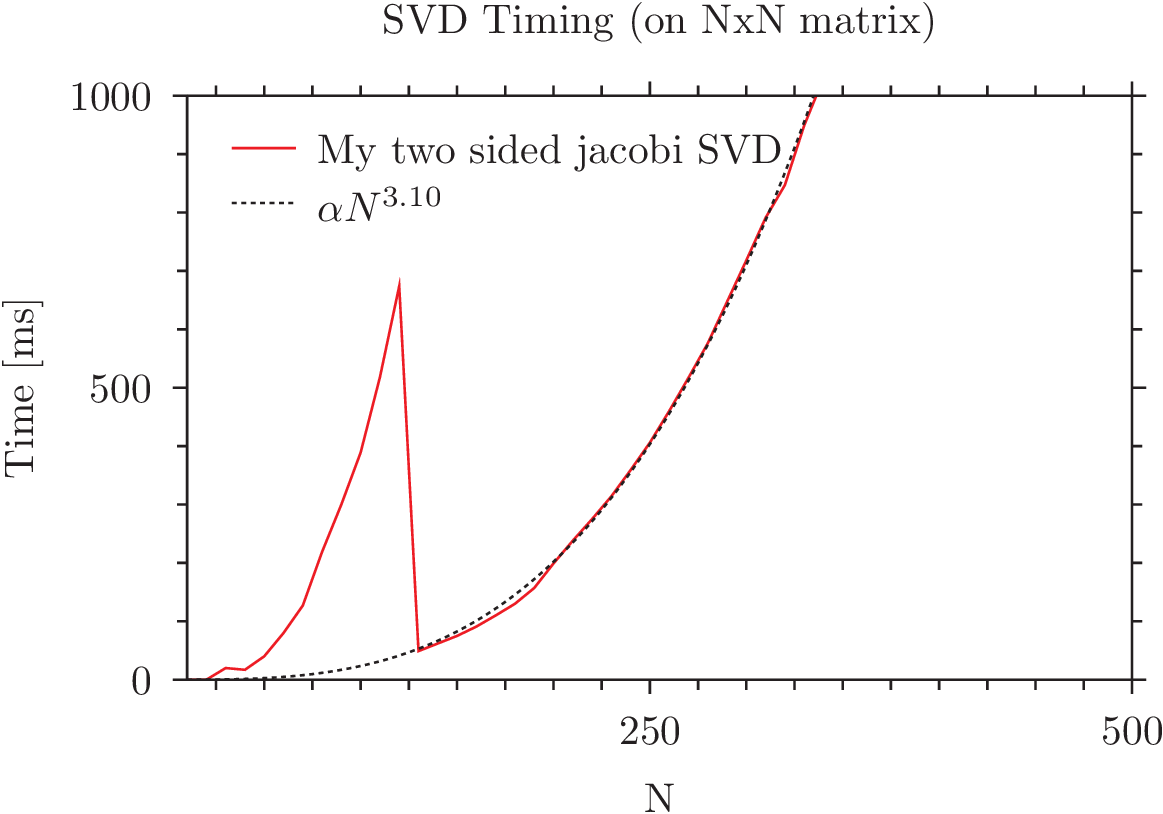
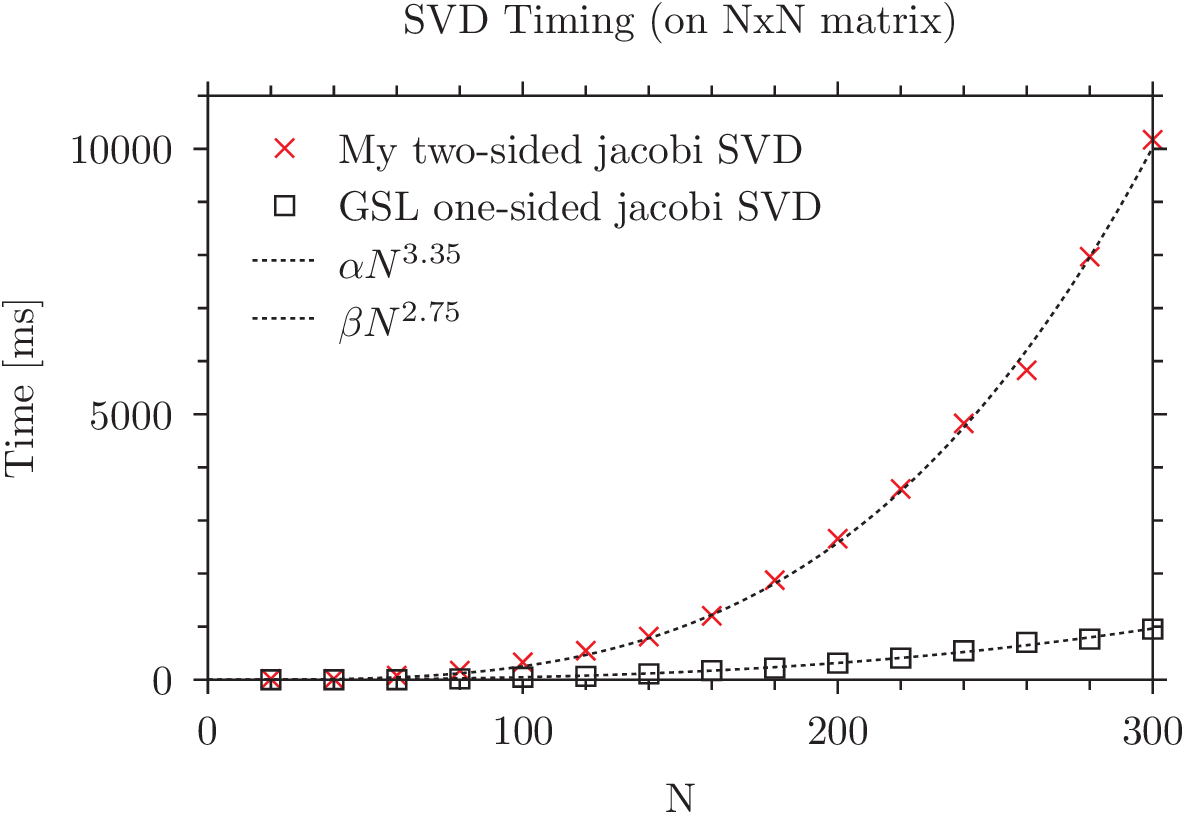
timing vs GSL

diff --git a/exam/main.c b/exam/main.c
@@ -1,6 +1,6 @@
 #include"matrix.h"
 #include<gsl/gsl_blas.h>
-#include<gsl/gsl_eigen.h>
+#include<gsl/gsl_linalg.h>
 
 #include<stdio.h>
 #include<time.h>
@@ -9,10 +9,6 @@
 #include<string.h>
 #define true 1
 #define false 0
-
-int testDiag(gsl_matrix *A){
-    return 0;
-}
 
 //Testing algorithm on tall matrix with n>m
 complex test_SVD(int n, int m, double tau, double eps){
@@ -55,8 +51,7 @@ complex test_SVD(int n, int m, double tau, double eps){
     else if(check_diagonal(D, tau, eps) == false){
         err_code = 4; // Check D is diagonal
     }
-    
-    
+        
     gsl_matrix_free(A);
     gsl_matrix_free(D);
     gsl_matrix_free(U);
@@ -73,7 +68,6 @@ void compare_GSL(){
 
 void show_basic_func(){   
     printf("Two-sided Jacobi alg. for SVD\n\n");
-    
     
     int n = 7, m = 5;
     gsl_matrix *A = gsl_matrix_alloc(n, m);    
@@ -112,14 +106,12 @@ void show_basic_func(){
     
     gsl_blas_dgemm(CblasTrans, CblasNoTrans, 1, U, U, 0, UTU);
     gsl_blas_dgemm(CblasTrans, CblasNoTrans, 1, V, V, 0, VTV);
-    
-    
+        
     printf("Checking orthonormality\nMatrix VT*V: \n");
     print_matrix(VTV);
     printf("Matrix UT*V: \n");
     print_matrix(UTU);
-    
-    
+        
     gsl_matrix_free(A);
     gsl_matrix_free(D);
     gsl_matrix_free(U);
@@ -127,12 +119,11 @@ void show_basic_func(){
     gsl_matrix_free(UTU);
     gsl_matrix_free(VTV);
     gsl_matrix_free(P);
-    gsl_matrix_free(tempM);
-    
+    gsl_matrix_free(tempM);    
 }
 void testing(){
     int n_tests = 10;
-    int a = 100, b = 300;
+    int a = 50, b = 250;
     printf("\n\n----- TESTING -----\n");
     printf("Testing SVD algorithm on multiple random tall matrices, A, size NxM (N>M).\nM in [%d, %d] and N = M + rand([%d, %d]) + 1\n", a, b, a, b);
     printf("Testing is done by checking orthonormality of U and V, that D is diagonal, and U*D*V^T = A\n");
@@ -153,23 +144,36 @@ void testing(){
 void timing(){
     FILE *timing_output = fopen("timing.out", "w");
     
-    const int runs = 50;
-    const int max_N = 500;
-    for(int n = 10; n<=max_N; n+=max_N/runs){
+    const int runs = 15;
+    const int max_N = 300;
+    for(int n = max_N/runs; n<=max_N; n+=max_N/runs){
+        fprintf(stderr, "timing n=%d\n", n);
         gsl_matrix *A = gsl_matrix_alloc(n, n);    
+        gsl_matrix *Acopy = gsl_matrix_alloc(n, n);
+        gsl_vector *S = gsl_vector_alloc(n);
         gsl_matrix *U = gsl_matrix_alloc(n, n);    
         gsl_matrix *V = gsl_matrix_alloc(n, n);
+        gen_rand_matrix(A);
+        gsl_matrix_memcpy(Acopy, A);
         
         clock_t start = clock();
         SVD_two_jaco_square(A, V, U);
         clock_t end = clock();
         int msec_my_algo = (double)(end-start) * 1000. / CLOCKS_PER_SEC;
         
-        fprintf(timing_output, "%d %d\n", n, msec_my_algo);
+        start = clock();
+        gsl_linalg_SV_decomp_jacobi(Acopy, V, S);
+        end = clock();
+        int msec_gsl = (double)(end-start) * 1000. / CLOCKS_PER_SEC;
+        
+        
+        fprintf(timing_output, "%d %d %d\n", n, msec_my_algo, msec_gsl);
         
         gsl_matrix_free(A);
+        gsl_matrix_free(Acopy);
         gsl_matrix_free(U);
         gsl_matrix_free(V);
+        gsl_vector_free(S);
     }
     fclose(timing_output);
 }
@@ -184,6 +188,7 @@ int main(int argc, char**argv){
     
     if(argc >= 2){
         if(strcmp(argv[1], "test") == 0){
+            show_basic_func();
             testing();
         } else if(strcmp(argv[1], "time") == 0){
             timing();
@@ -193,13 +198,6 @@ int main(int argc, char**argv){
         }
     } else{
         show_basic_func();
-        testing();
-        timing();
-    }
-    
-    printf("TODO:\n");
-    printf("Optimization\n");
-    printf("Compare with a gsl-implementation\n\n");
-    
+    }    
     return EXIT_SUCCESS; 
 }

diff --git a/exam/SVD_two_jaco.c b/exam/SVD_two_jaco.c
@@ -33,68 +33,71 @@ void Jtimes(gsl_matrix *A, int p, int q, double theta){
 int SVD_two_jaco_square(gsl_matrix *A, gsl_matrix *V, gsl_matrix *U){
     assert(A->size1==A->size2);
     int n = A->size1;
-    
+
     int changes = 0;
     int sweeps = 0;
+
+    double old_app, old_aqq, new_app, new_aqq, apq, aqp, app, aqq;
+    double givens_angle, jacobi_angle;
     //Reset U,V to identity
-	gsl_matrix_set_identity(V);
-	gsl_matrix_set_identity(U);
-	do{
-		changes=0;
-		sweeps++;
+    gsl_matrix_set_identity(V);
+    gsl_matrix_set_identity(U);
+    do{
+        changes=0;
+        sweeps++;
         //Sweep over upper triangle
-		for(int p=0;p<n-1;p++){
+        for(int p=0;p<n-1;p++){
             for(int q=p+1;q<n;q++){
                 //Check if diagonal elements change upon next rotation
-                double old_app=gsl_matrix_get(A,p,p);
-                double old_aqq=gsl_matrix_get(A,q,q);
-                
+                old_app=gsl_matrix_get(A,p,p);
+                old_aqq=gsl_matrix_get(A,q,q);
+
                 //Calculate A <- J^T G^T A J 
-                double apq=gsl_matrix_get(A,p,q);
-                double aqp=gsl_matrix_get(A,q,p);
-                double app=gsl_matrix_get(A,p,p);
-                double aqq=gsl_matrix_get(A,q,q);
-                
+                apq=gsl_matrix_get(A,p,q);
+                aqp=gsl_matrix_get(A,q,p);
+                app=gsl_matrix_get(A,p,p);
+                aqq=gsl_matrix_get(A,q,q);
+
                 //First symmetrizise the two off diagonal elements
-                double givens_angle=atan2(apq-aqp, app+aqq);            //Angle for Givens matrix
+                givens_angle=atan2(apq-aqp, app+aqq);            //Angle for Givens matrix
                 Jtimes(A,p,q, -givens_angle);
-                
+
                 apq=gsl_matrix_get(A,p,q);
                 app=gsl_matrix_get(A,p,p);
                 aqq=gsl_matrix_get(A,q,q);
-                
+
                 //Then eliminate them
-                double jacobi_angle=0.5*atan2(2*apq,aqq-app);            //Angle for Jacobi matrix
+                jacobi_angle=0.5*atan2(2*apq,aqq-app);            //Angle for Jacobi matrix
                 timesJ(A,p,q,  jacobi_angle);
                 Jtimes(A,p,q, -jacobi_angle);
-                
+
                 //Update U and V
                 timesJ(V,p,q, jacobi_angle);
                 timesJ(U,p,q, givens_angle);
                 timesJ(U,p,q, jacobi_angle);
-                
-                double new_app=gsl_matrix_get(A,p,p);
-                double new_aqq=gsl_matrix_get(A,q,q);
-                
+
+                new_app=gsl_matrix_get(A,p,p);
+                new_aqq=gsl_matrix_get(A,q,q);
+
                 //Convergence criteria - the new diagonal elements must be equal to the old, after one sweep (within machine epsilon)
                 if(old_app != new_app || old_aqq != new_aqq){
                     changes++;
                 }
             }
         }
-	} while(changes>0);
-    
+    } while(changes>0);
+
     //Loop through and check for negative diagonal elements in D
     for(int i = 0; i<n; i++){
         gsl_vector_view Ucol;
-        double  dii = gsl_matrix_get(A, i, i);
+        double dii = gsl_matrix_get(A, i, i);
         if(dii < 0){
             Ucol = gsl_matrix_column(U, i);
             gsl_vector_scale(&Ucol.vector, -1);
             gsl_matrix_set(A, i, i, -dii);
         }
-    }    
-	return sweeps;
+    }
+    return sweeps;
 }
 
 //SVD on general tall matrix - A is destroyed in the process.
